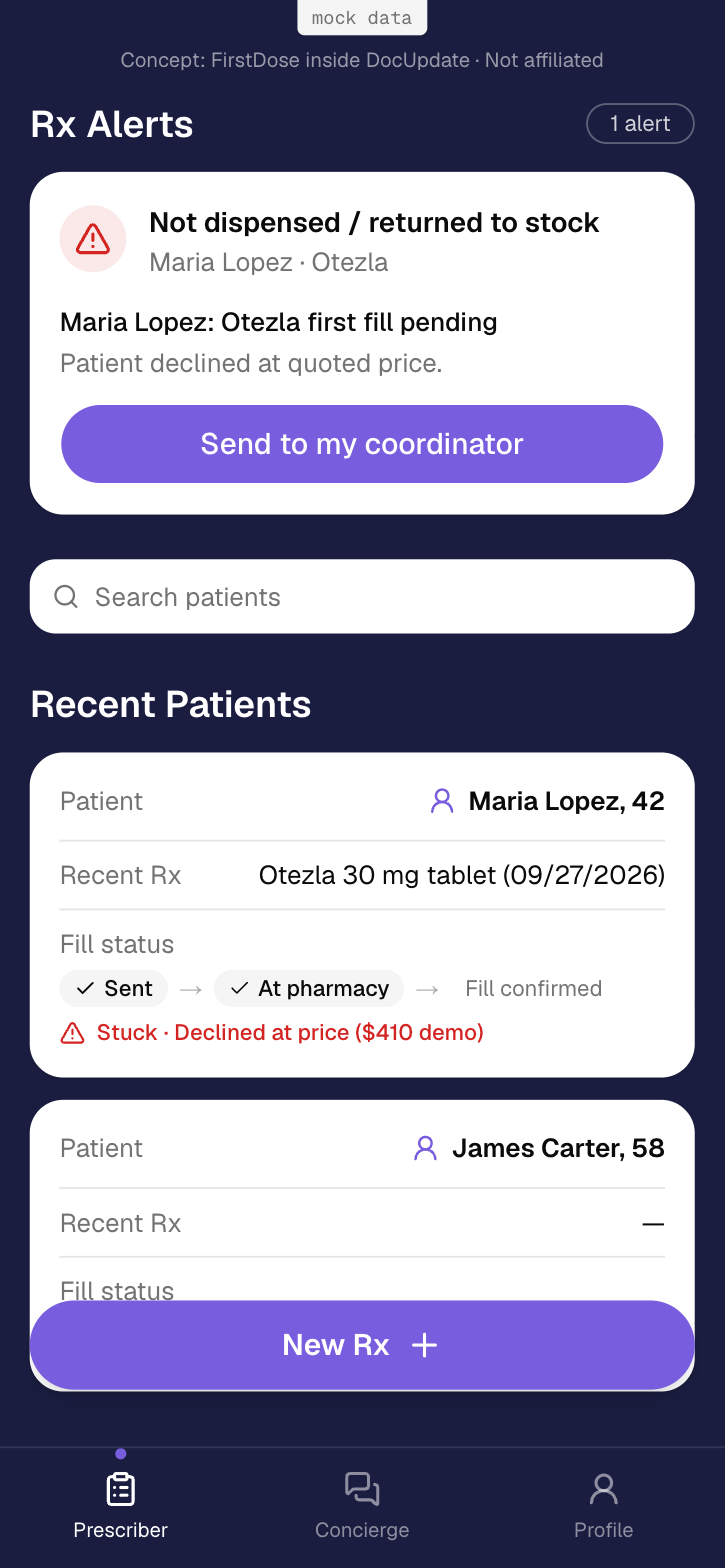
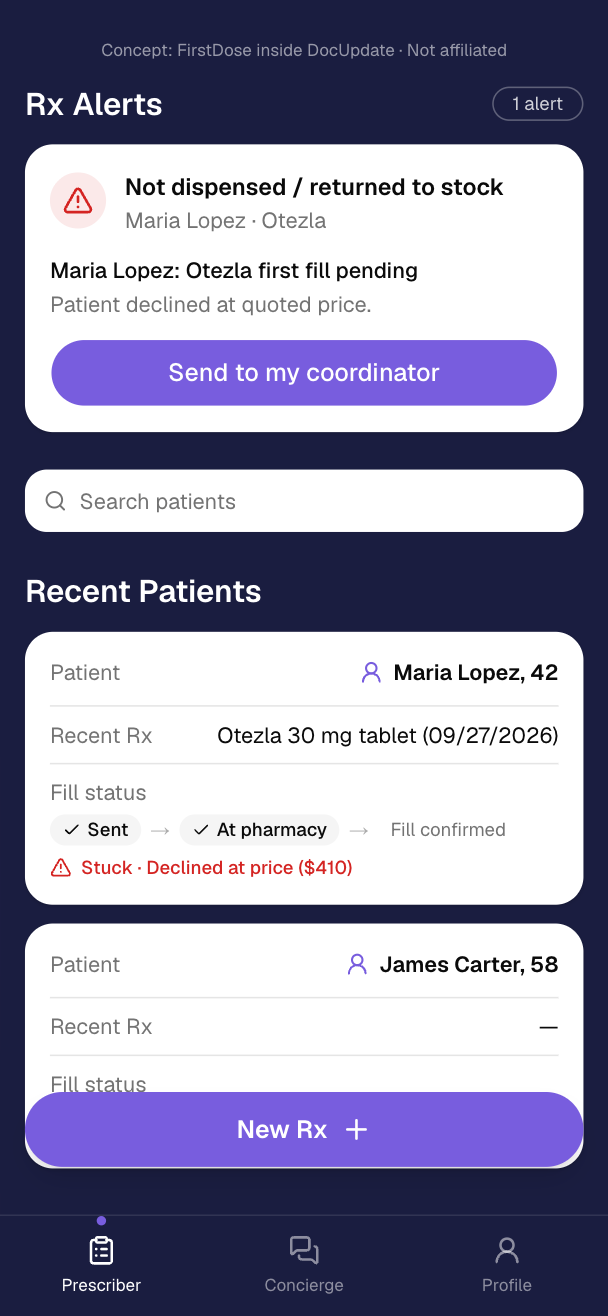
docs(stills): seeded coordinator queue for slide 4; doctor Home retaken without the old badges

diff --git a/docs/presentation/pitch-and-qa.md b/docs/presentation/pitch-and-qa.md
@@ -25,7 +25,7 @@ Sat Sep 26, 2026 · Deem. Paste-ready content, not a rendered deck. The 4-minute
 - **Say:** "Same Rx Alerts card, one new alert type: the pharmacy's own status, the reason, and Send to my coordinator."
 
 ### 4. The coordinator's Monday
-- **On slide:** the `/coordinator` Queue still (take it after 6.1 seeds the week): stuck, waiting and fills confirmed; one fix per row.
+- **On slide:** `../stills/coordinator-queue-seeded.png` (firstdose.vercel.app, seeded week): 3 stuck, 2 waiting, 8 fills confirmed; one fix per row.
 - **Say:** "This is the person who gets patients started. Chasing new starts by phone is already their whole job. Now it's a list of who's stuck, why, and the one fix."
 
 ### 5. The loop
